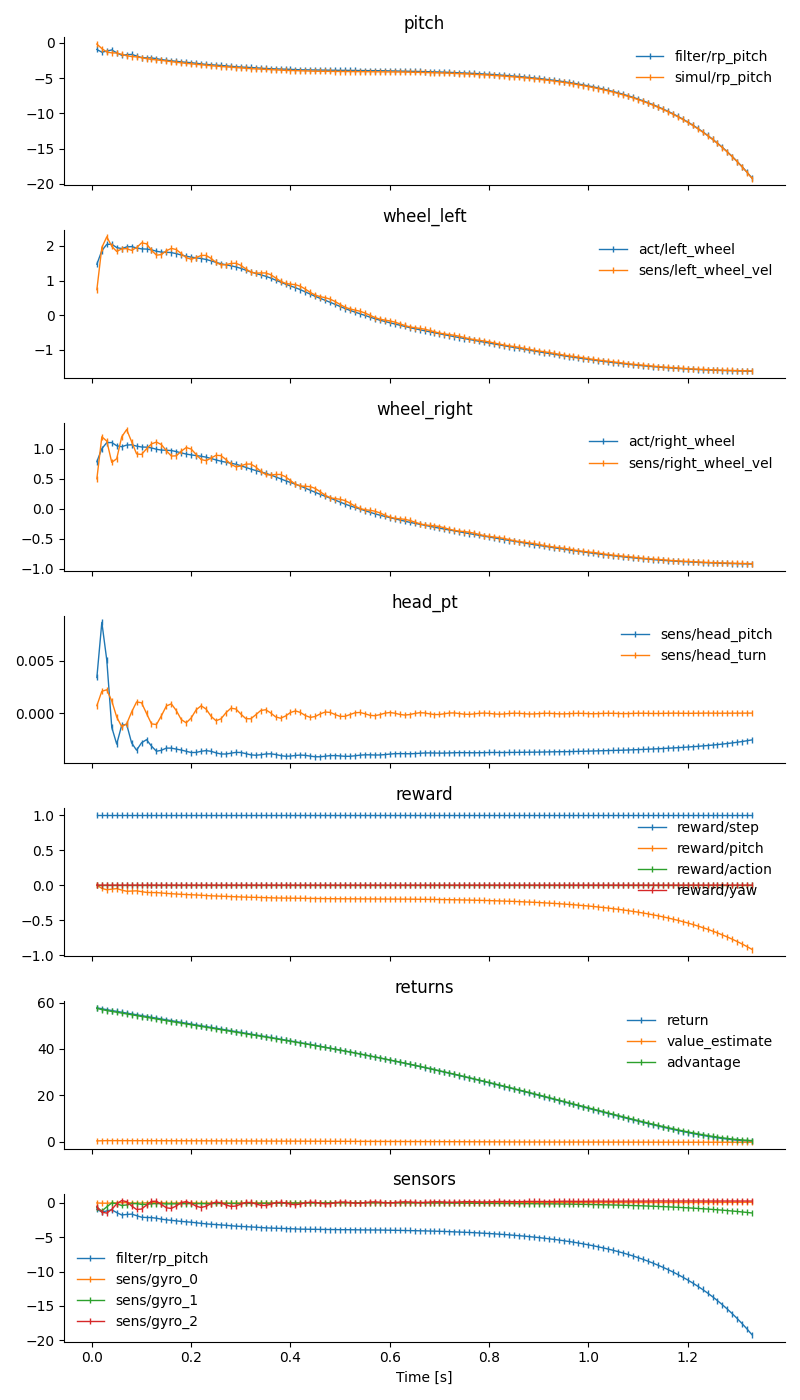
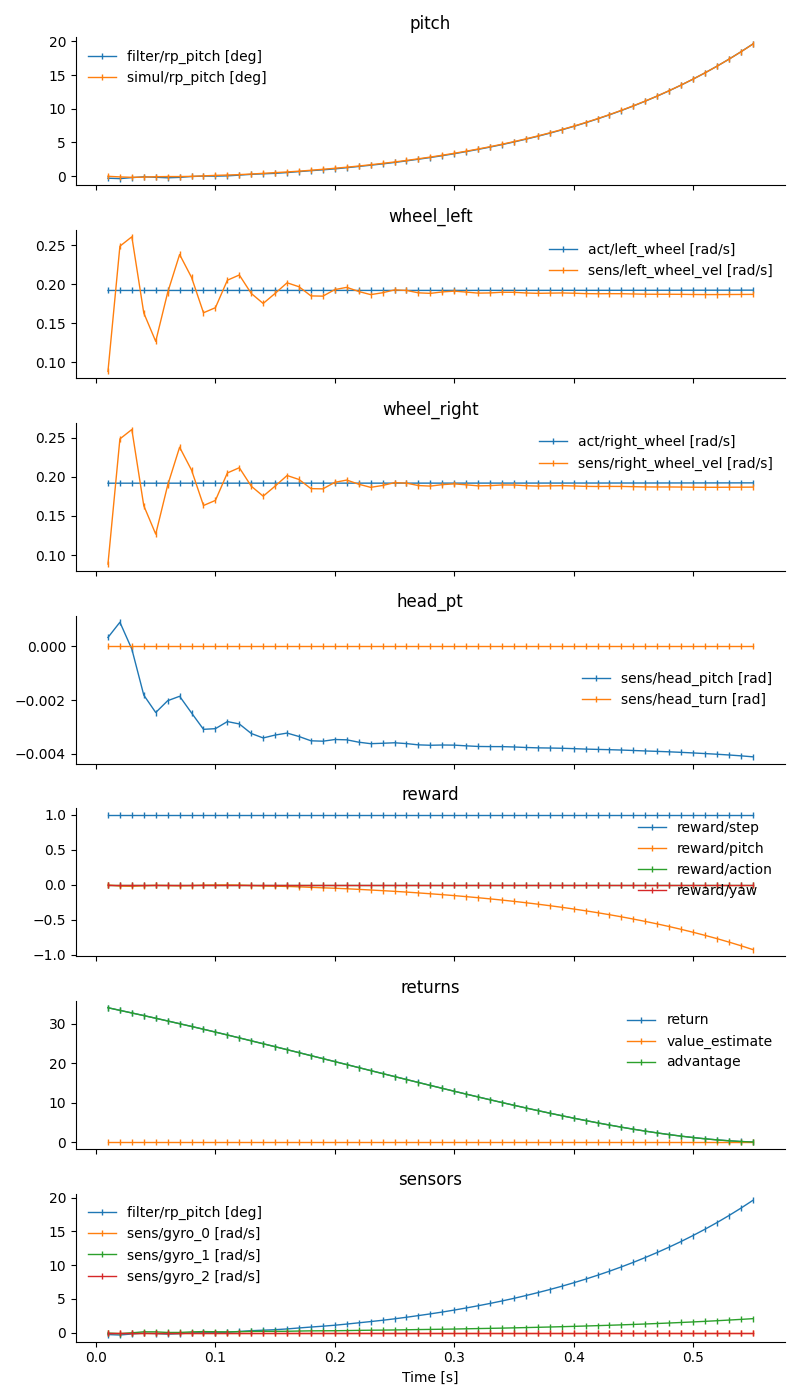
Add explicit units to plot labels

diff --git a/src/sim/try_policy.py b/src/sim/try_policy.py
@@ -56,9 +56,9 @@ def run_episode(
 ) -> list[Tape] | None:
     # Unwrap to get actual env
     env = rp_env
-    while hasattr(env, 'env'):
+    while hasattr(env, "env"):
         env = env.env
-    
+
     for rollout in range(nrollouts):
         agent.rollout_index = rollout
         obs_d, _ = rp_env.reset(seed=seed)
@@ -110,6 +110,33 @@ def plot_state_history(
     for k in idx_dict:
         print(f"\t{k}")
 
+    # Units mapping
+    units = {
+        "filter/rp_pitch": "deg",
+        "sens/gyro_0": "rad/s",
+        "sens/gyro_1": "rad/s",
+        "sens/gyro_2": "rad/s",
+        "sens/acc_0": "m/s²",
+        "sens/acc_1": "m/s²",
+        "sens/acc_2": "m/s²",
+        "sens/left_wheel_vel": "rad/s",
+        "sens/right_wheel_vel": "rad/s",
+        "sens/head_pitch": "rad",
+        "sens/head_turn": "rad",
+        "simul/rp_pitch": "deg",
+        "act/left_wheel": "rad/s",
+        "act/right_wheel": "rad/s",
+        "env/time": "s",
+        "reward": "",
+        "reward/step": "",
+        "reward/pitch": "",
+        "reward/action": "",
+        "reward/yaw": "",
+        "return": "",
+        "value_estimate": "",
+        "advantage": "",
+    }
+
     n_rows = len(plot_groups)
 
     _, axarr = plt.subplots(n_rows, 1, sharex=True, figsize=(8, n_rows * 2))
@@ -118,7 +145,9 @@ def plot_state_history(
     for ax, k in zip(axarr, plot_groups.groups()):
         for g in plot_groups[k]:
             data = history[:, idx_dict[g]]
-            ax.plot(times, data, "-|", markersize=5, lw=1, label=g)
+            unit = units.get(g, "")
+            label = f"{g} [{unit}]" if unit else g
+            ax.plot(times, data, "-|", markersize=5, lw=1, label=label)
         ax.set_title(f"{k}")
         ax.spines[["right", "top"]].set_visible(False)
         ax.legend(frameon=False)
@@ -167,7 +196,7 @@ if __name__ == "__main__":
 
     # Access the underlying env (unwrap RecordVideo if present)
     env = rpenv
-    while hasattr(env, 'env'):
+    while hasattr(env, "env"):
         env = env.env
     history, idx_d = env.state.history
 
@@ -184,9 +213,11 @@ if __name__ == "__main__":
     except:
         print("Warning: Could not load policy net, using zeros")
         policy_net = None
-    
+
     if policy_net is not None:
-        value_estimates = compute_value_estimates(policy_net, history, idx_d, MODEL_INPUT)
+        value_estimates = compute_value_estimates(
+            policy_net, history, idx_d, MODEL_INPUT
+        )
     else:
         value_estimates = np.zeros(len(history))
     history = np.column_stack([history, value_estimates])
@@ -198,9 +229,19 @@ if __name__ == "__main__":
     idx_d["advantage"] = np.array([history.shape[1] - 1])
 
     plot_groups = PlotGroups()
-    plot_groups.__dict__['returns'] = ("return", "value_estimate", "advantage")
-    plot_groups.__dict__['reward'] = ("reward/step", "reward/pitch", "reward/action", "reward/yaw")
-    plot_groups.__dict__['sensors'] = ("filter/rp_pitch", "sens/gyro_0", "sens/gyro_1", "sens/gyro_2")
+    plot_groups.__dict__["returns"] = ("return", "value_estimate", "advantage")
+    plot_groups.__dict__["reward"] = (
+        "reward/step",
+        "reward/pitch",
+        "reward/action",
+        "reward/yaw",
+    )
+    plot_groups.__dict__["sensors"] = (
+        "filter/rp_pitch",
+        "sens/gyro_0",
+        "sens/gyro_1",
+        "sens/gyro_2",
+    )
 
     plot_state_history(history=history, idx_dict=idx_d, plot_groups=plot_groups)
     plt.savefig("plots/episode.png", dpi=100)
